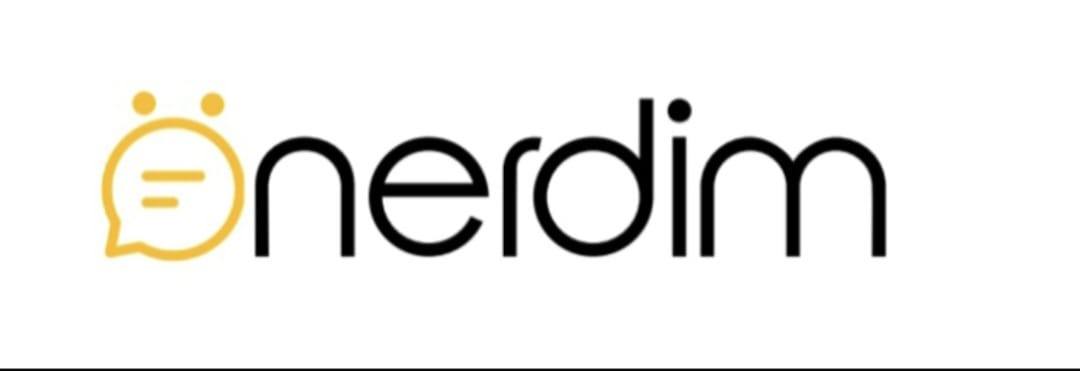
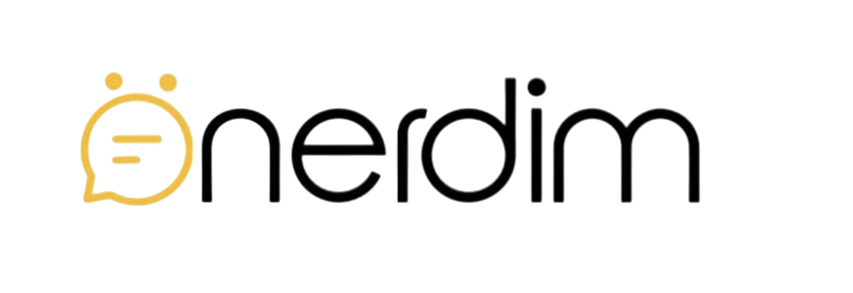
updated

diff --git a/index.css b/index.css
@@ -13,7 +13,7 @@
 
         body {
             font-family: -apple-system, BlinkMacSystemFont, 'Segoe UI', Roboto, Oxygen, Ubuntu, sans-serif;
-            background: #0a0a0f;
+            background: #666671;
             color: white;
             line-height: 1.6;
             overflow-x: hidden;
@@ -26,7 +26,7 @@
             left: 0;
             width: 100%;
             z-index: 1000;
-            background: rgba(10, 10, 15, 0.95);
+            background: #666671;
             backdrop-filter: blur(20px);
             padding: 1rem 0;
             border-bottom: 1px solid rgba(255, 215, 0, 0.2);
@@ -35,18 +35,20 @@
 
         .navbar.scrolled {
             padding: 0.7rem 0;
-            background: rgba(10, 10, 15, 0.98);
+            background:#666671;
             box-shadow: 0 5px 20px rgba(0, 0, 0, 0.3);
         }
 
         .nav-container {
             max-width: 1400px;
             margin: 0 auto;
-            padding: 0 2rem;
-            display: flex;
+             display: flex;
             justify-content: space-between;
             align-items: center;
-        }
+             
+     padding: 0 1rem; /* nice balance */
+}
+         
 
         .nav-logo {
             font-size: 1.8rem;
@@ -60,14 +62,18 @@
             align-items: center;
             gap: 8px;
             transition: transform 0.3s;
-        }
+           
+    margin-left: -20px;
+}
+         
 
         .nav-logo:hover {
             transform: scale(1.05);
         }
 
-        .logo-icon {
-            font-size: 1.2em;
+        .logo-icon img {
+            width: 6.6em;
+            height: 2.6em;
         }
 
         /* Desktop Navigation */
@@ -102,7 +108,7 @@
 
         .nav-cta {
             background: linear-gradient(135deg, #FFD700, #FFA500);
-            color: #0a0a0f;
+            color: #666671;
             padding: 0.7rem 1.8rem;
             border-radius: 25px;
             font-weight: 700;
@@ -142,7 +148,7 @@
             right: -100%;
             width: 300px;
             height: 100vh;
-            background: rgba(10, 10, 15, 0.98);
+            background: #666671;
             backdrop-filter: blur(20px);
             z-index: 999;
             transition: right 0.4s ease;
@@ -172,8 +178,8 @@
             min-height: 100vh;
             display: flex;
             align-items: center;
-            padding: 100px 0 50px;
-            background: linear-gradient(135deg, #0a0a0f 0%, #1a1a2e 100%);
+            padding: 250px 0 50px;
+            background: linear-gradient(135deg, #666671 0%, #1a1a2e 100%);
             position: relative;
             overflow: hidden;
         }

diff --git a/index.html b/index.html
@@ -5,7 +5,7 @@
     <meta name="viewport" content="width=device-width, initial-scale=1.0">
     <title>Onerdim - Real recommendations from real people</title>
     <link rel="stylesheet" href="./index.css">
-    <link rel="icon" href="./onerdim_social.png" type="image/x-icon" sizes="32x32">
+    <link rel="icon" href="./resized.png" type="image/x-icon" sizes="32x32">
     <!-- Font Awesome 6 (free) -->
     <link rel="stylesheet" href="https://cdnjs.cloudflare.com/ajax/libs/font-awesome/6.0.0-beta3/css/all.min.css">
     <!-- QR Code library -->
@@ -17,9 +17,8 @@
     <nav class="navbar" id="navbar">
         <div class="nav-container">
             <a href="#" class="nav-logo">
-                <span class="logo-icon">Ö</span>
-                <span>onerdim</span>
-            </a>
+                <span class="logo-icon"><img src="onerdim_text.jpeg" alt=""></span>
+             </a>
 
             <!-- Desktop Navigation -->
             <ul class="nav-menu">
@@ -52,7 +51,7 @@
     <section class="hero" id="home">
         <div class="hero-container">
             <div class="hero-content">
-                <h1 class="hero-title">onerdim</h1>
+              <!--<img class="hero-title" src="onerdim_text.jpeg" alt="Onerdim Logo">-->  
                 <p class="hero-subtitle">Real people. Real opinions. No fake stuff.</p>
                 <p class="hero-description">
                     Tired of sponsored posts and paid reviews? Same. Onerdim is where everyday folks share what they actually bought, actually used, and actually think.
